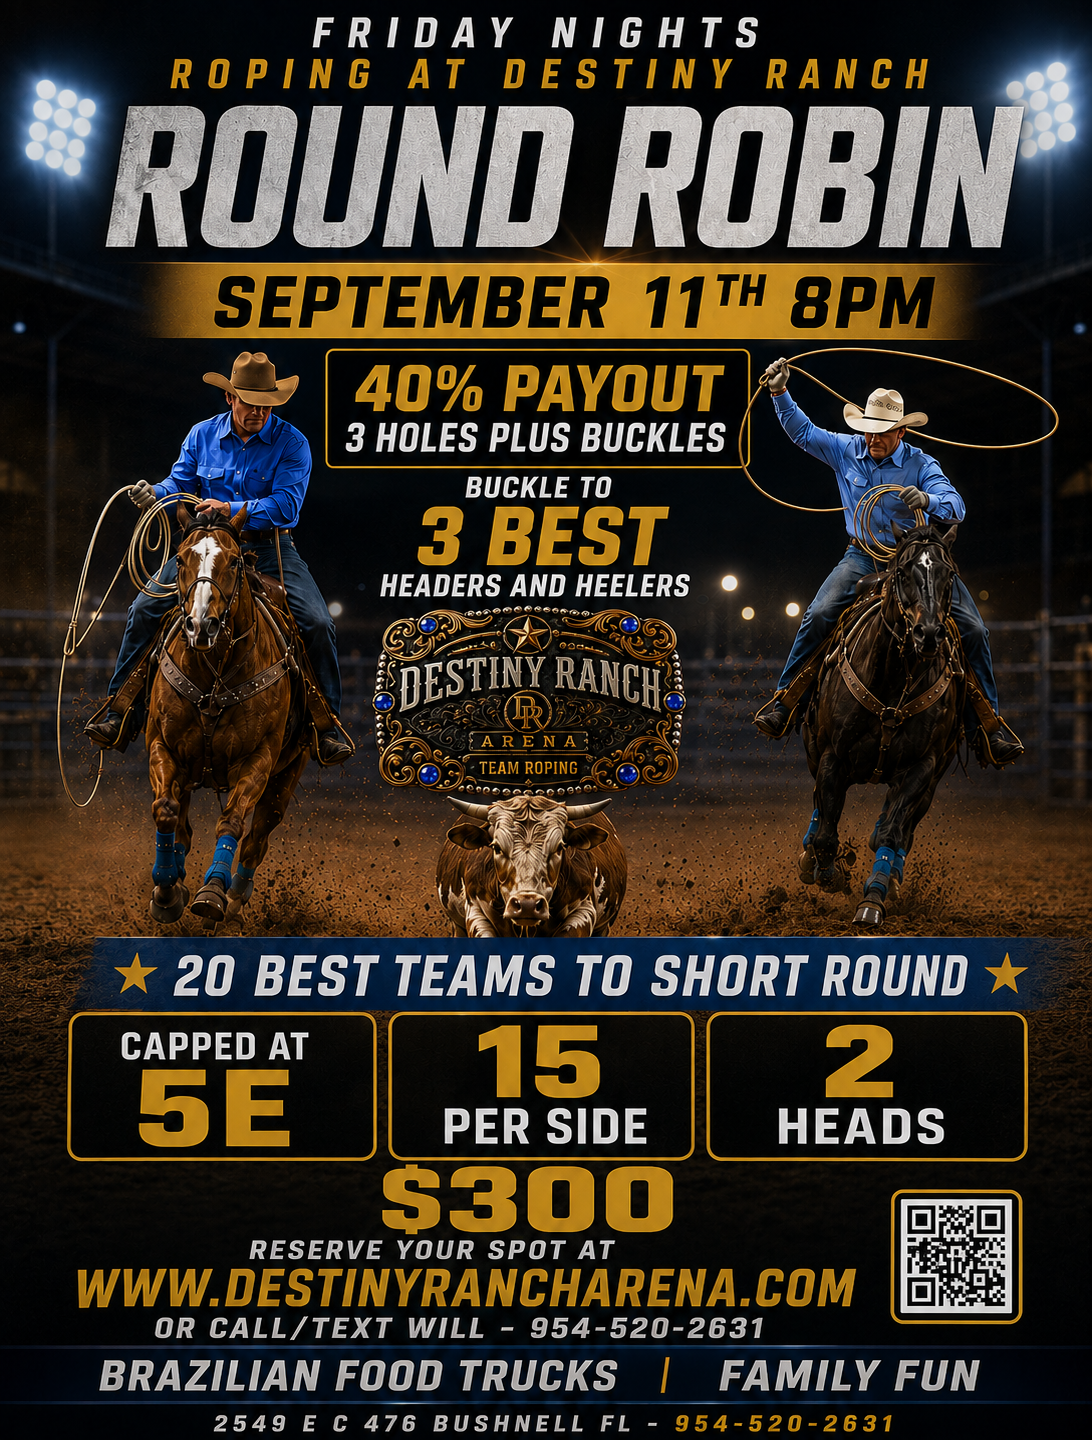
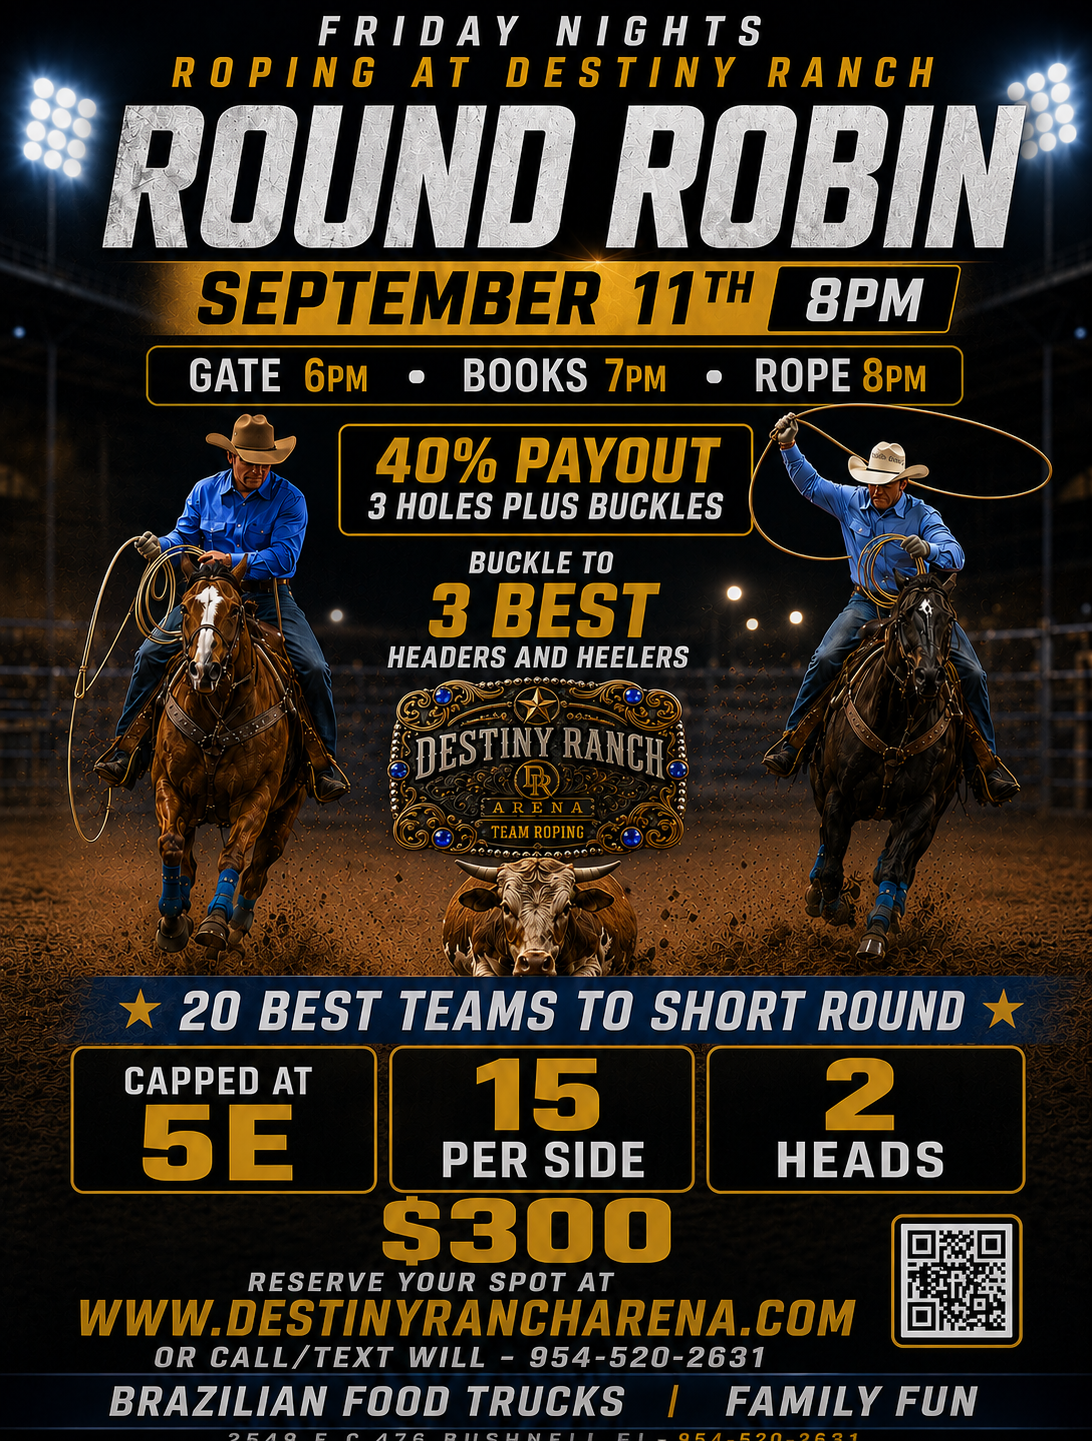
Update September 11 flyer with Friday Night Round Robin details (#93)
* Limit ride-in riders to draw participants for pick-and-draw

The Run Desk ride-in form listed every eligible contestant even when a
pick-and-draw roping was running. The header and heeler dropdowns now
only offer riders with an active draw registration, and submission is
blocked with a clear message if a rider is not entered in the draw —
matching the existing Registration Desk picked-team rule.

* Replace August 28 future-event flyer with August 30 reschedule flyer

The Mixed Roping event was rescheduled to Sunday, August 30 at 9:00 AM
due to weather. The Future Events section now shows the updated flyer
with the reschedule banner in place of the original August 28 flyer.

* Add slide rules option to Round Robin ropings

A Round Robin can now opt into slide rules with a new 'Apply slide
rules' toggle in the roping form, which reveals the slide number field.
When enabled, Round 2 times adjust 0.5 seconds per 0.5 team handicap
above or below the slide number, capped at 4 seconds — identical to the
Slide format. The Run Desk, reports, and public competition details show
the slide adjustment for these ropings the same way they do for Slides.

* Respect Not progressive setting so no-time teams advance rounds

- applyRunResult: no-time results advance to the next round when the
  event is not progressive (or before the progressive round)
- syncShortGoFinalists: include no-time teams in the final round when
  qualification is not required; append missing teams to an already
[…]

diff --git a/src/publicFlyers.test.ts b/src/publicFlyers.test.ts
@@ -9,7 +9,7 @@ describe("public flyer categories", () => {
     expect(futureEventFlyers).toEqual([
       {
         src: "./september-11-round-robin-2026-flyer.png",
-        alt: "Destiny Ranch Arena September 11 Round Robin event flyer",
+        alt: "Destiny Ranch Arena September 11 Friday Night Round Robin flyer — gates 6 PM, rope 8 PM, 20 best teams to short round",
       },
       {
         src: "./september-25-friday-night-roping-flyer.png",

diff --git a/src/publicFlyers.ts b/src/publicFlyers.ts
@@ -6,7 +6,7 @@ export interface PublicFlyer {
 export const futureEventFlyers: PublicFlyer[] = [
   {
     src: "./september-11-round-robin-2026-flyer.png",
-    alt: "Destiny Ranch Arena September 11 Round Robin event flyer",
+    alt: "Destiny Ranch Arena September 11 Friday Night Round Robin flyer — gates 6 PM, rope 8 PM, 20 best teams to short round",
   },
   {
     src: "./september-25-friday-night-roping-flyer.png",
